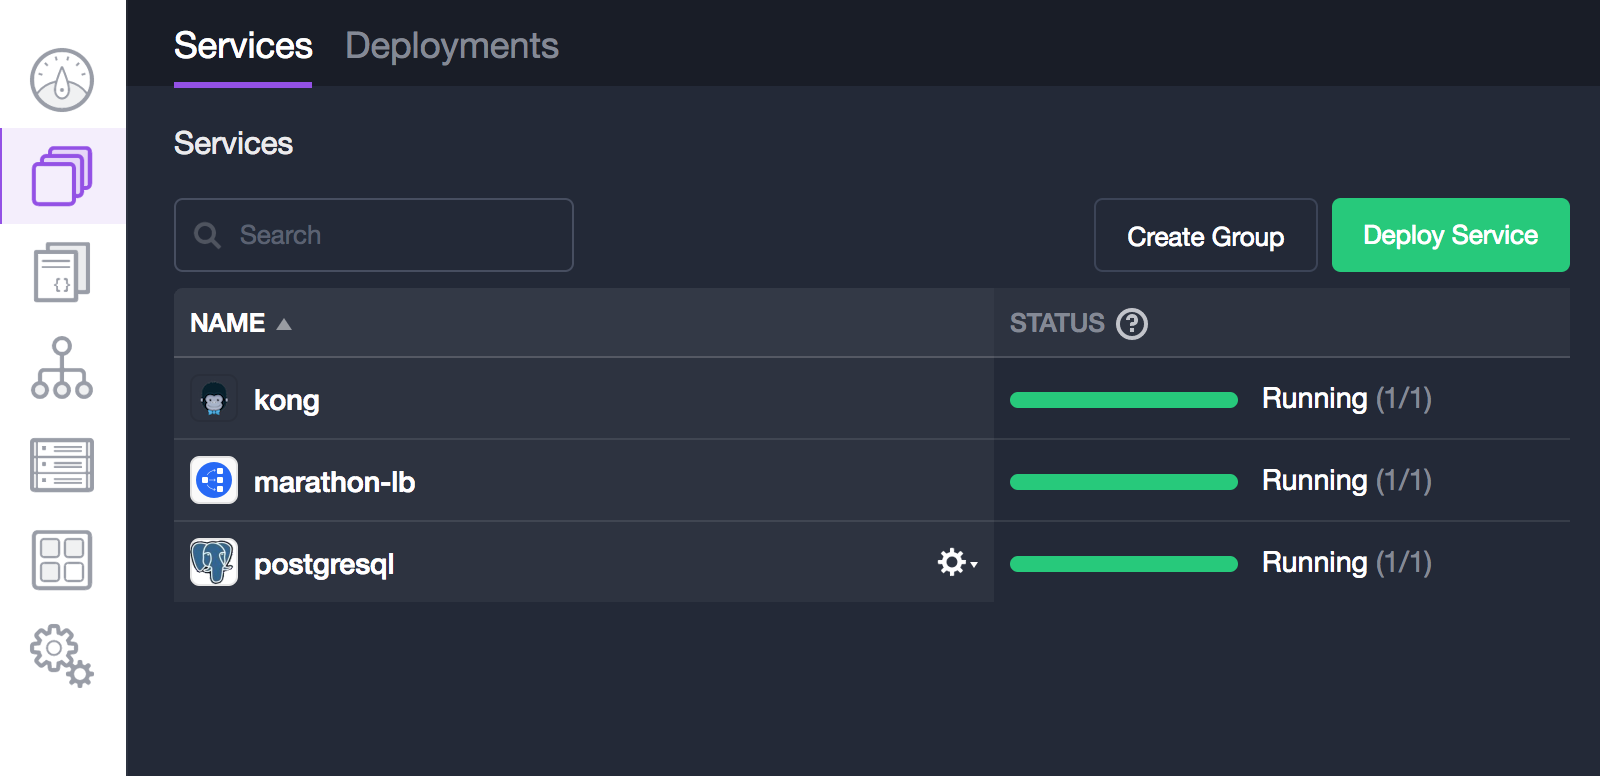
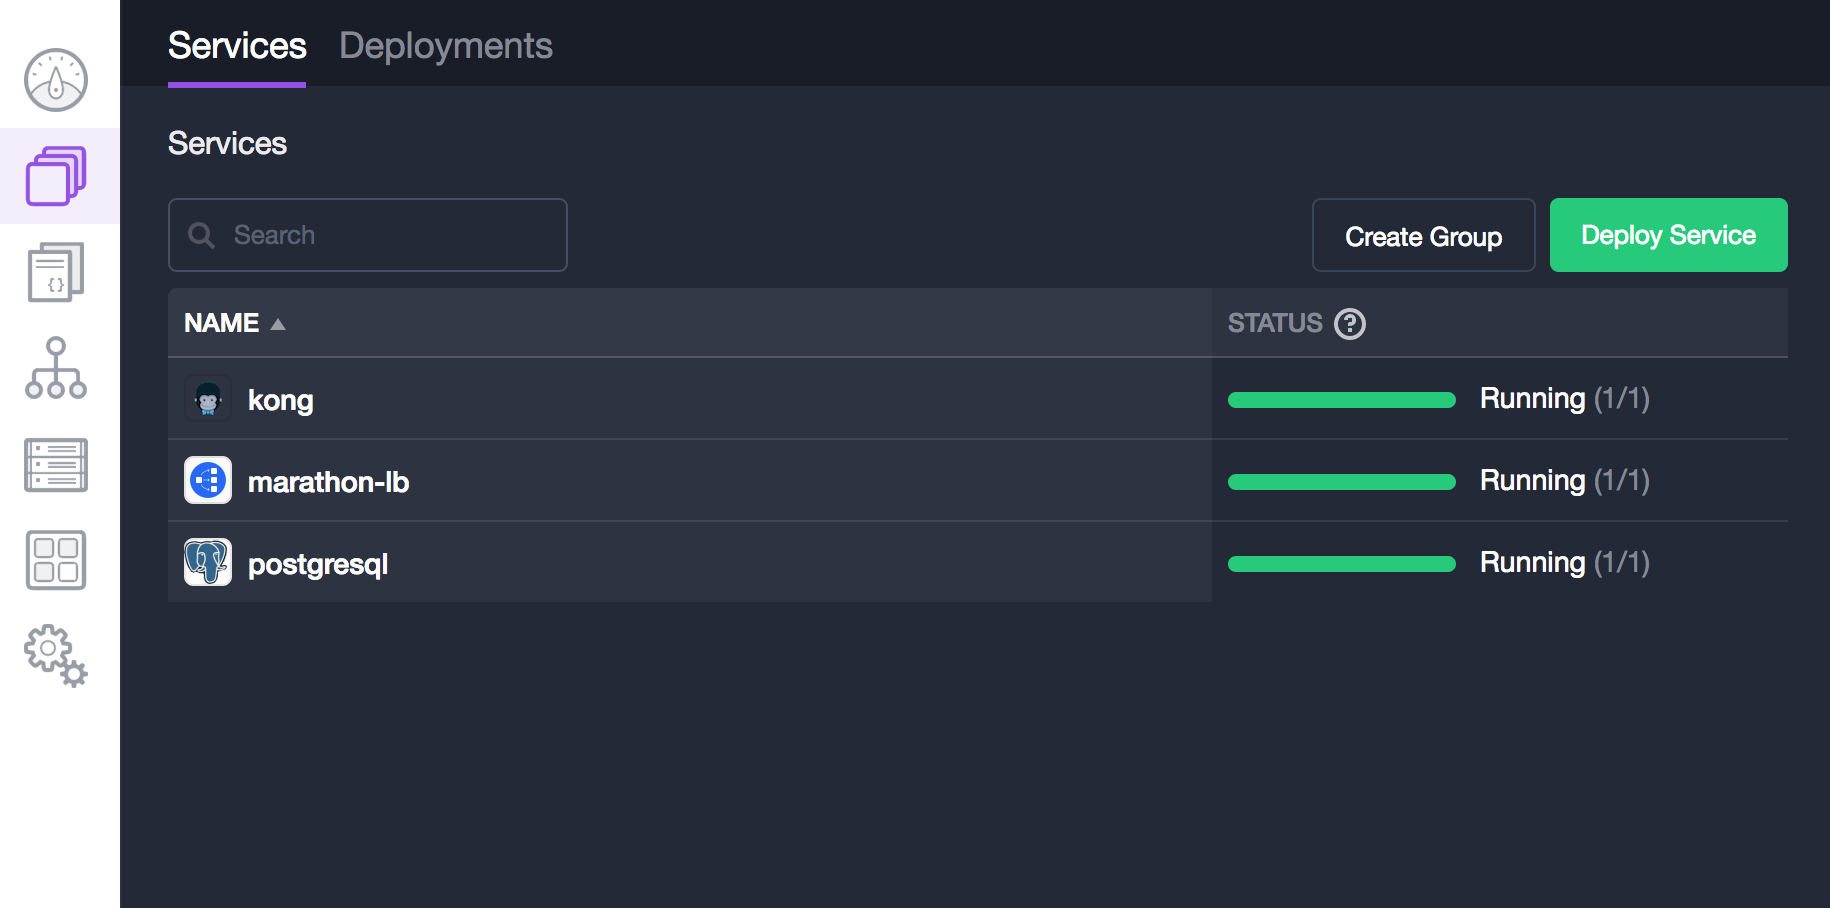
updated graphics

diff --git a/1.8/kong/README.md b/1.8/kong/README.md
@@ -8,13 +8,13 @@
 
 ## Prerequisites
 
-- A running DC/OS 1.8 cluster with at least 1 node having at least 1.3 CPUs and 1 GB of RAM available.
+- A running DC/OS 1.8 cluster with 1.3 CPUs and 1 GB of RAM available.
 - Marathon-LB installed
 - Postgresql installed
 
 ## Install Postgresql
 
-First install a postgresql database in your DC/OS cluster using the existing Universe package. Configure the package by creating a file called `options.json` with following contents:
+First install a postgresql database in your DC/OS cluster using the existing Universe package. Configure the package by creating a file called `options.json` with following:
 
 ```json
 {
@@ -95,8 +95,11 @@ marathon-lb  10.0.6.130  root    R    marathon-lb.104e0ebe-03be-11e7-b790-627a33
 postgresql   10.0.0.71   root    R    postgresql.0f2867a0-03cb-11e7-b790-627a33830456
 ```
 
-Now that Kong is installed, curl the marathon-lb endpoint to validate that it is up and running.  `curl http://<public-agent-ip>:10002`. You should see output similar to this:
+Kong in the DC/OS UI
+
 ![Kong on DC/OS](img/kong-dcos.png)
+
+Now that Kong is installed, curl the marathon-lb endpoint to validate that it is up and running `curl http://<public-agent-ip>:10002` You should see output similar to this:
 
 ![Kong API endpoint](img/kong-api.png)
 
